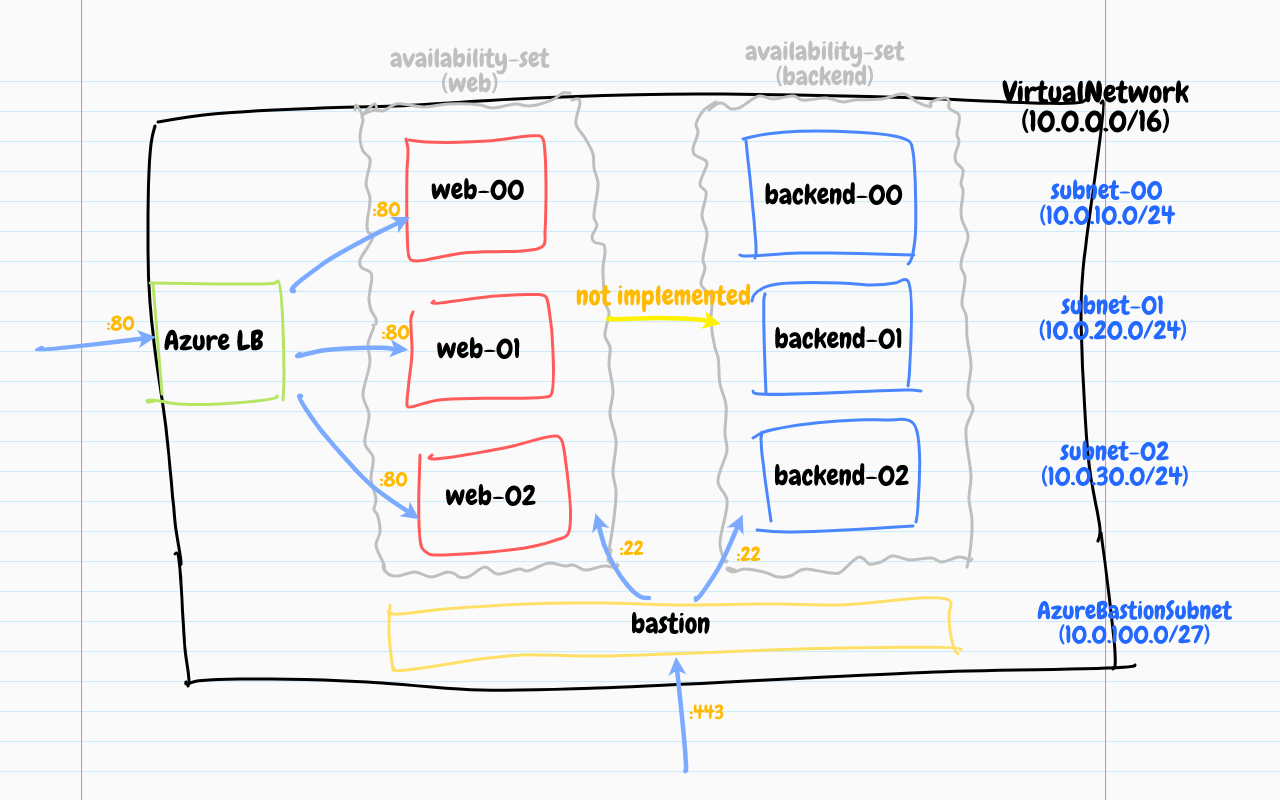
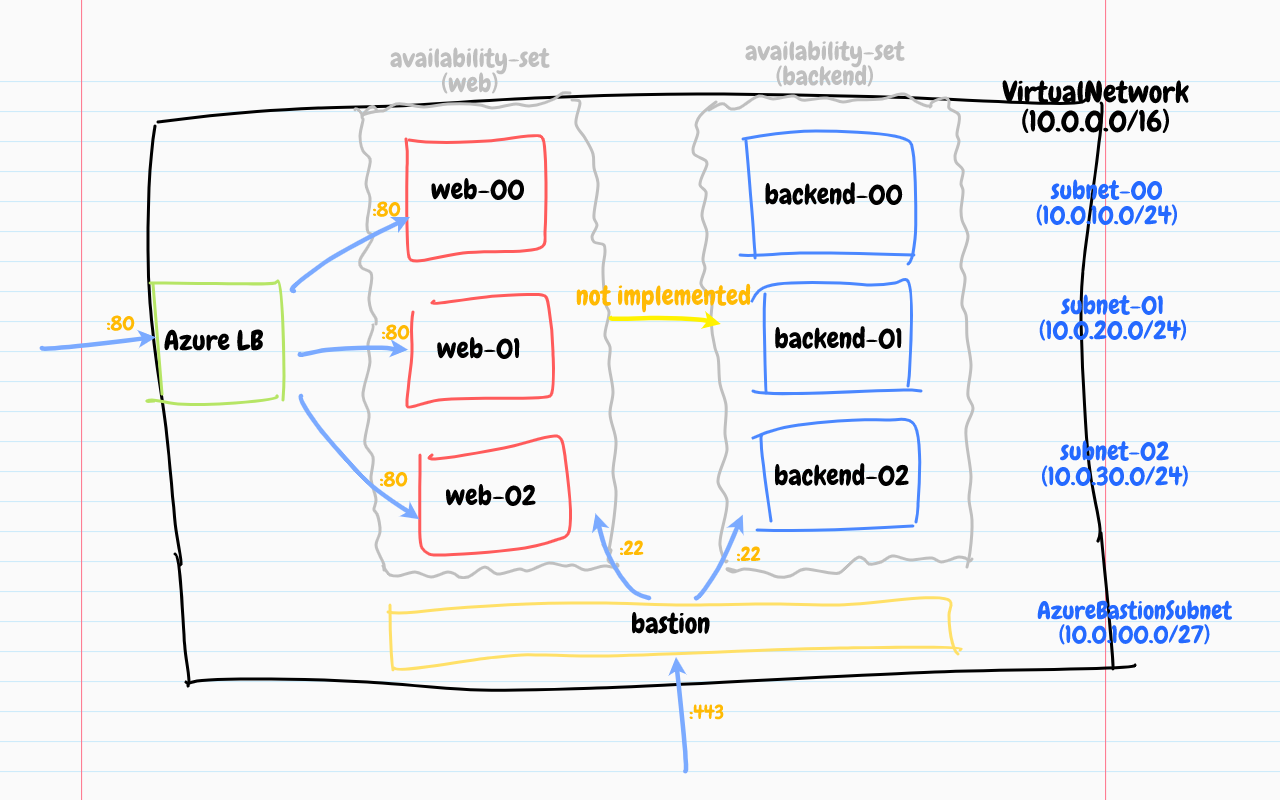
Update README and image

diff --git a/README.md b/README.md
@@ -3,18 +3,20 @@
 This project is a Pulumi program that knows how to provision the following Azure resources:
 
 * A new Azure resource group
-* A new virtual network with 3 subnets
+* A new virtual network with 3 private subnets
 * Two
 [availability sets](https://docs.microsoft.com/en-us/azure/virtual-machines/windows/tutorial-availability-sets)
-; `frontend` or `backend`
+; `frontend`, `backend`
 * Two
 [application security groups](https://docs.microsoft.com/en-us/azure/virtual-network/application-security-groups)
-; `web-servers` or `admin-servers`
-* 3 `web` and 3 `backend` Ubuntu VMs with the following properties:
-  * Deployed to private subnets
+; `web-servers`, `admin-servers`
+* 3 `web` and 3 `backend` Ubuntu VMs deployed to the 3 private subnets:
   * Grouped by availability sets
   * Assigned to application security groups
   * 30GB OS disk
+* A L4 Azure
+[load balancer](https://docs.microsoft.com/en-us/azure/load-balancer/load-balancer-overview)
+backed by the pool of `web` VMs
 * A network security group with rules to allow HTTP/HTTPS and SSH access to the
 VMs
 * A bastion host that allows external access to the private VMs
